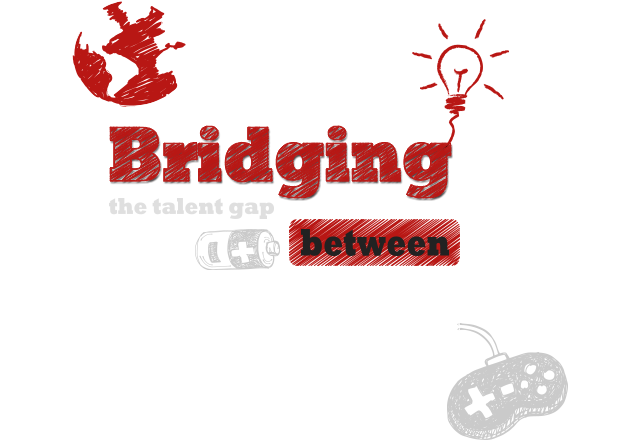
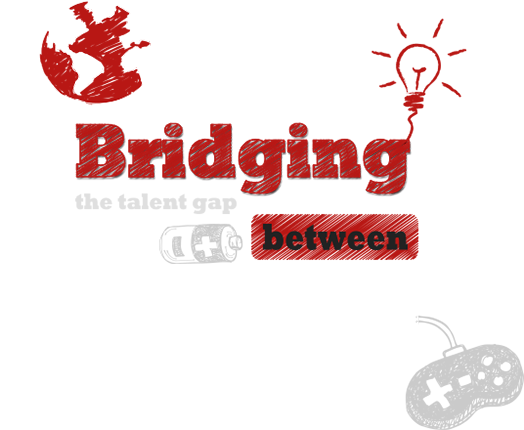
add carousel effect

diff --git a/public/app/css/sass/b2cmain.scss b/public/app/css/sass/b2cmain.scss
@@ -281,6 +281,15 @@ body {
         padding-top: 88px;
         .header-pics {
             width: 50%;
+            .carousel-indicators{
+                bottom: -90px;
+                left: 100%;
+                li{
+                    margin: 0 3px;
+                    width: 12px;
+                    height: 12px;
+                }
+            }
         }
     }
 
